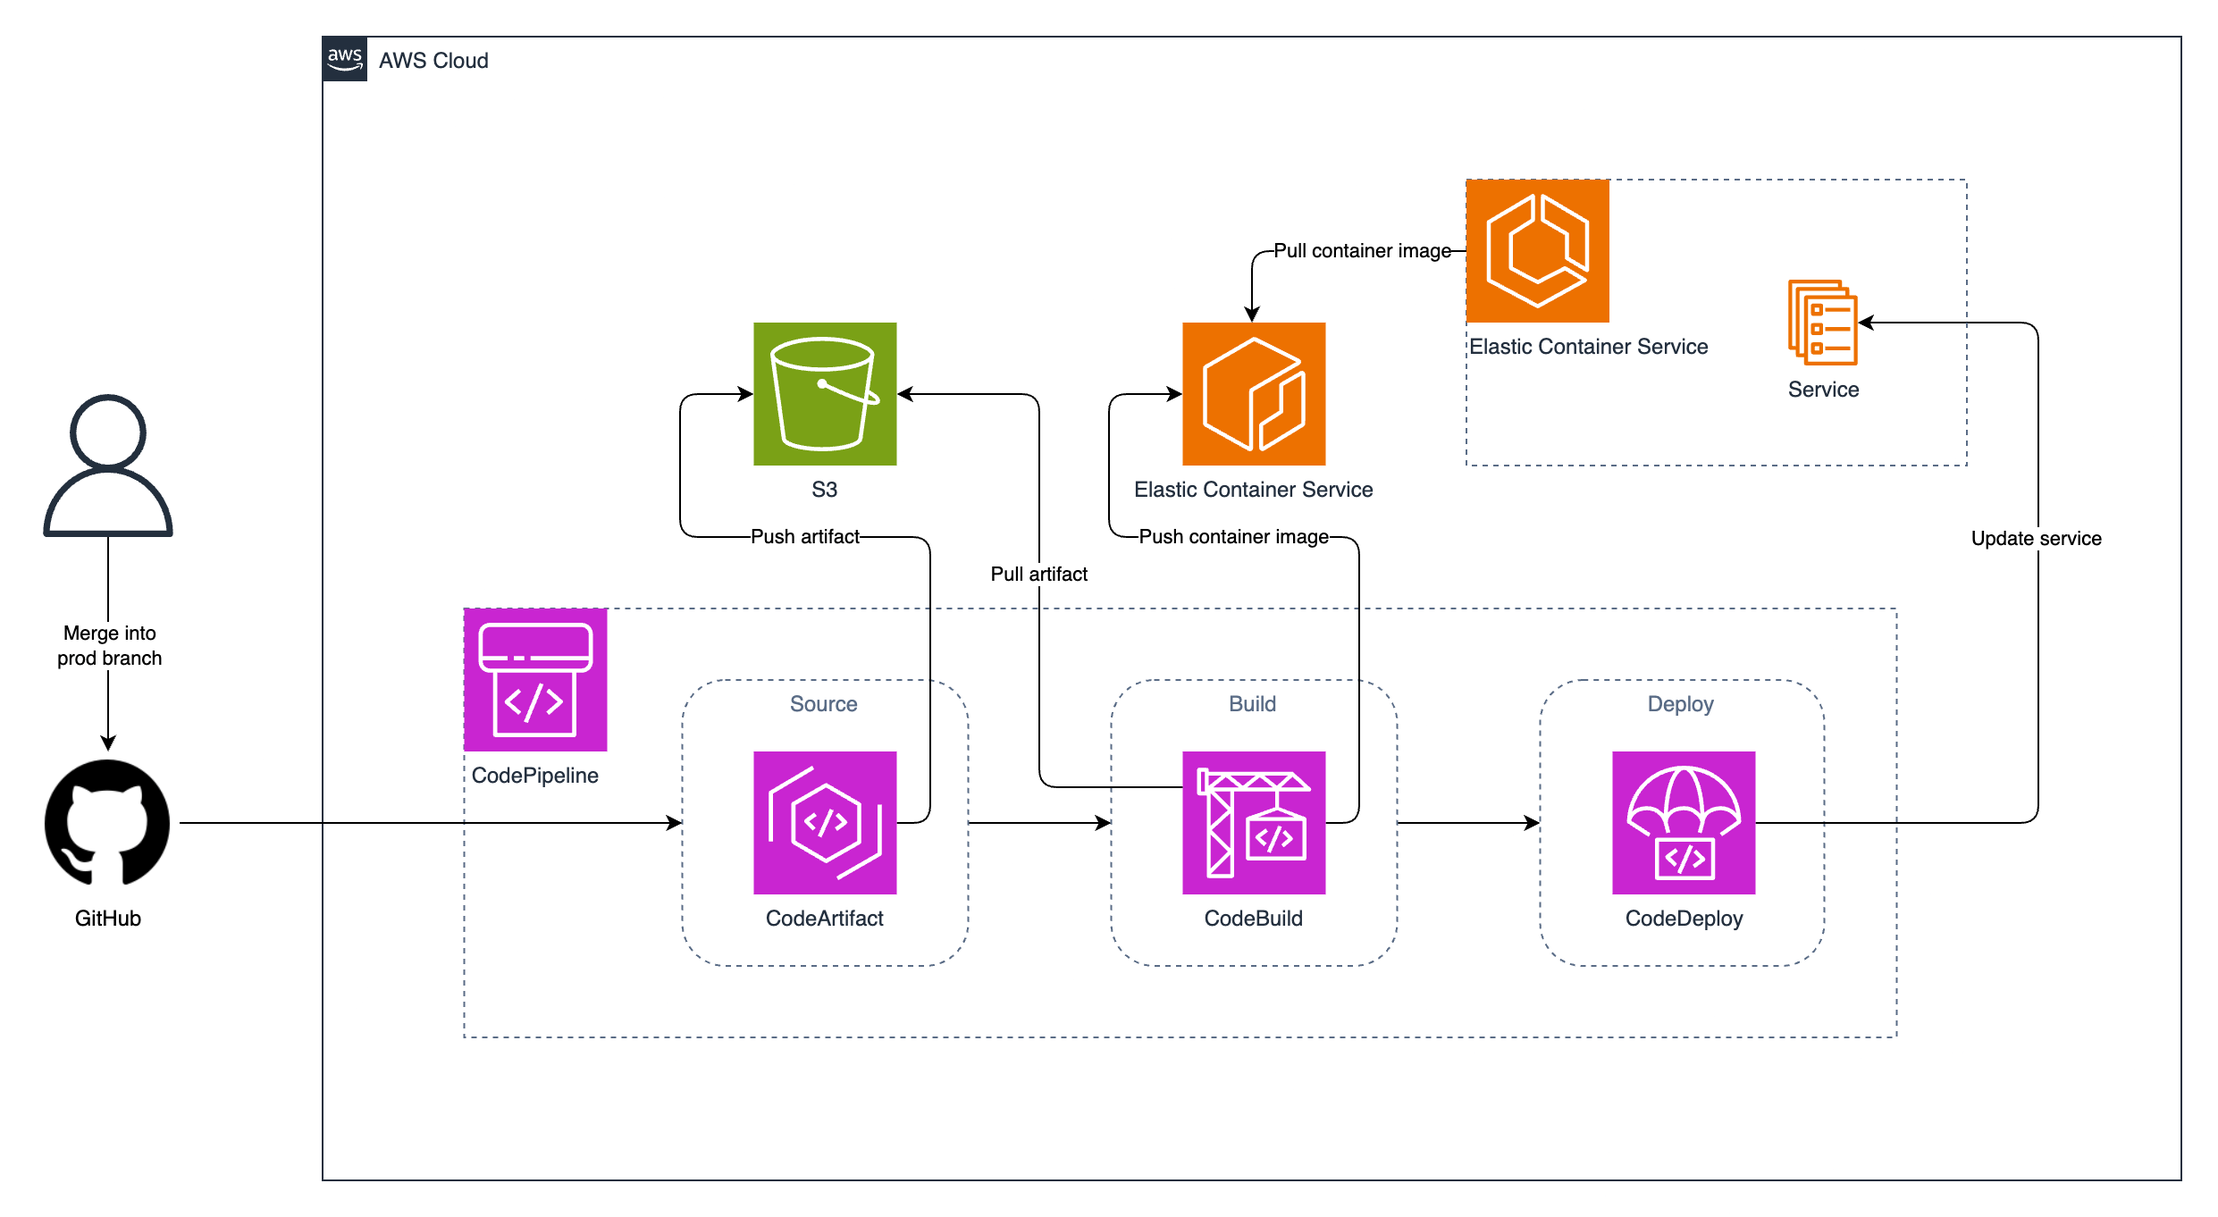
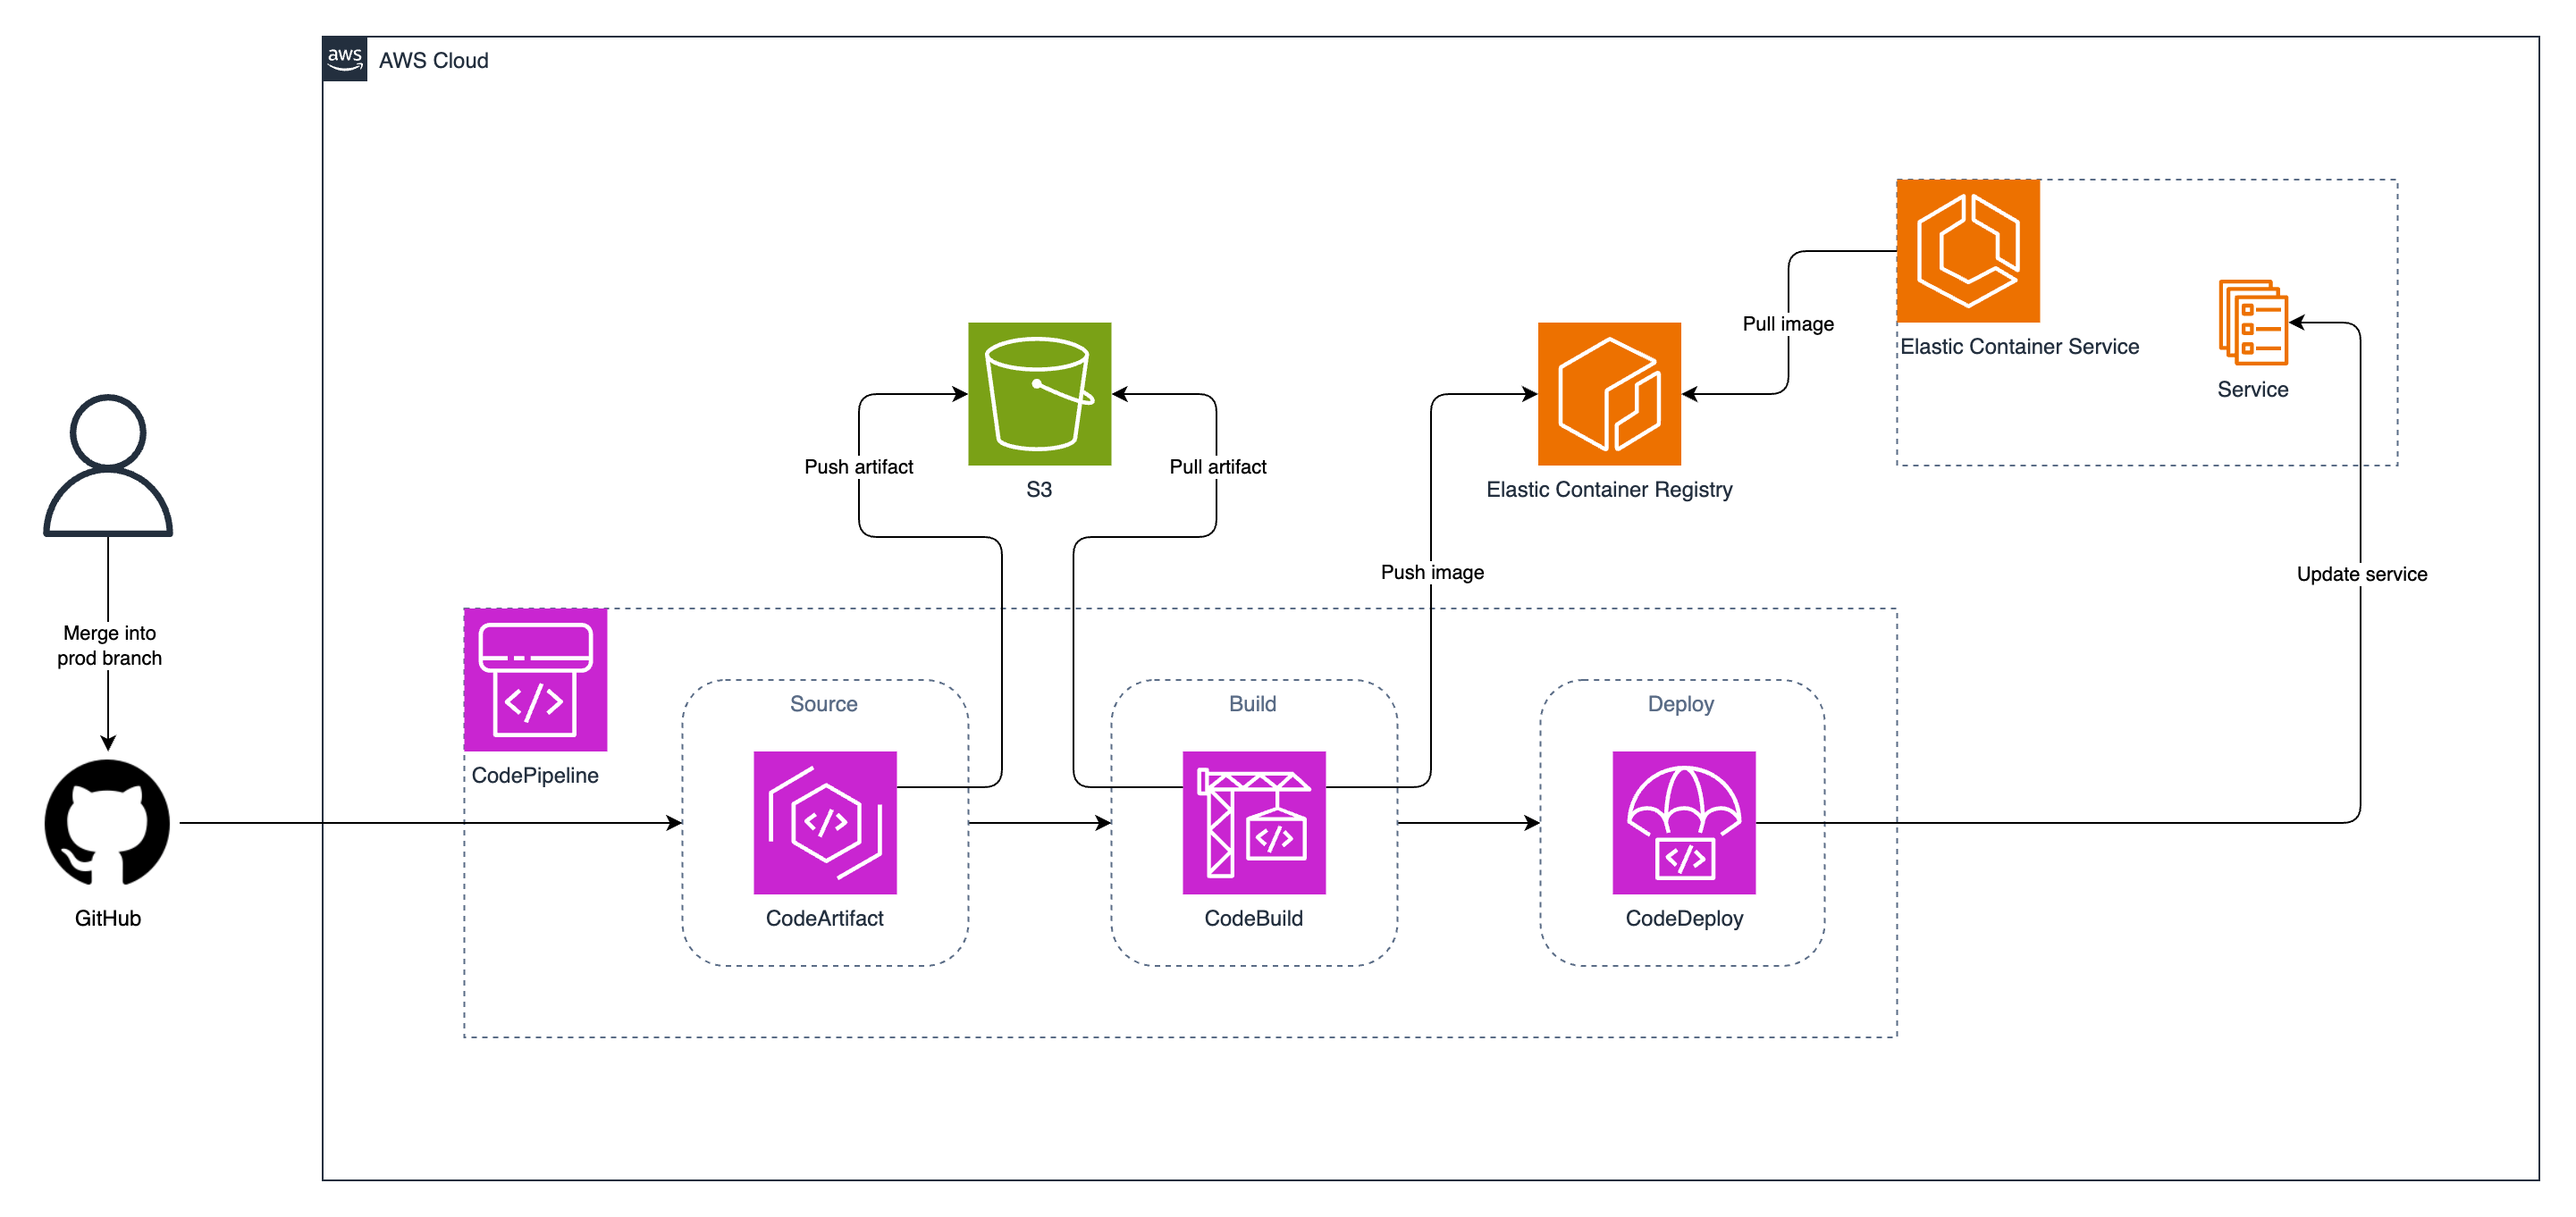
Add CI/CD pipeline diagram to README and update AWS services covered so far

diff --git a/README.md b/README.md
@@ -13,6 +13,10 @@ This is the most recent diagram of the AWS architecture.
 
 ![AWS architecture diagram](/journal/assets/week8/aws-architecture-diagram.jpg)
 
+And this is the most recent CI/CD pipeline architecture diagram.
+
+![ci/cd pipeline architecture diagram](/journal/assets/week9/ci-cd-pipeline.png)
+
 AWS services covered so far:
 - Billing and Cost Management
 - Cognito
@@ -33,6 +37,8 @@ AWS services covered so far:
 - CloudFront
 - Cloud Development Framework (CDK)
 - CloudFormation
+- CodePipeline
+- CodeBuild
 
 ## Journaling Homework
 
